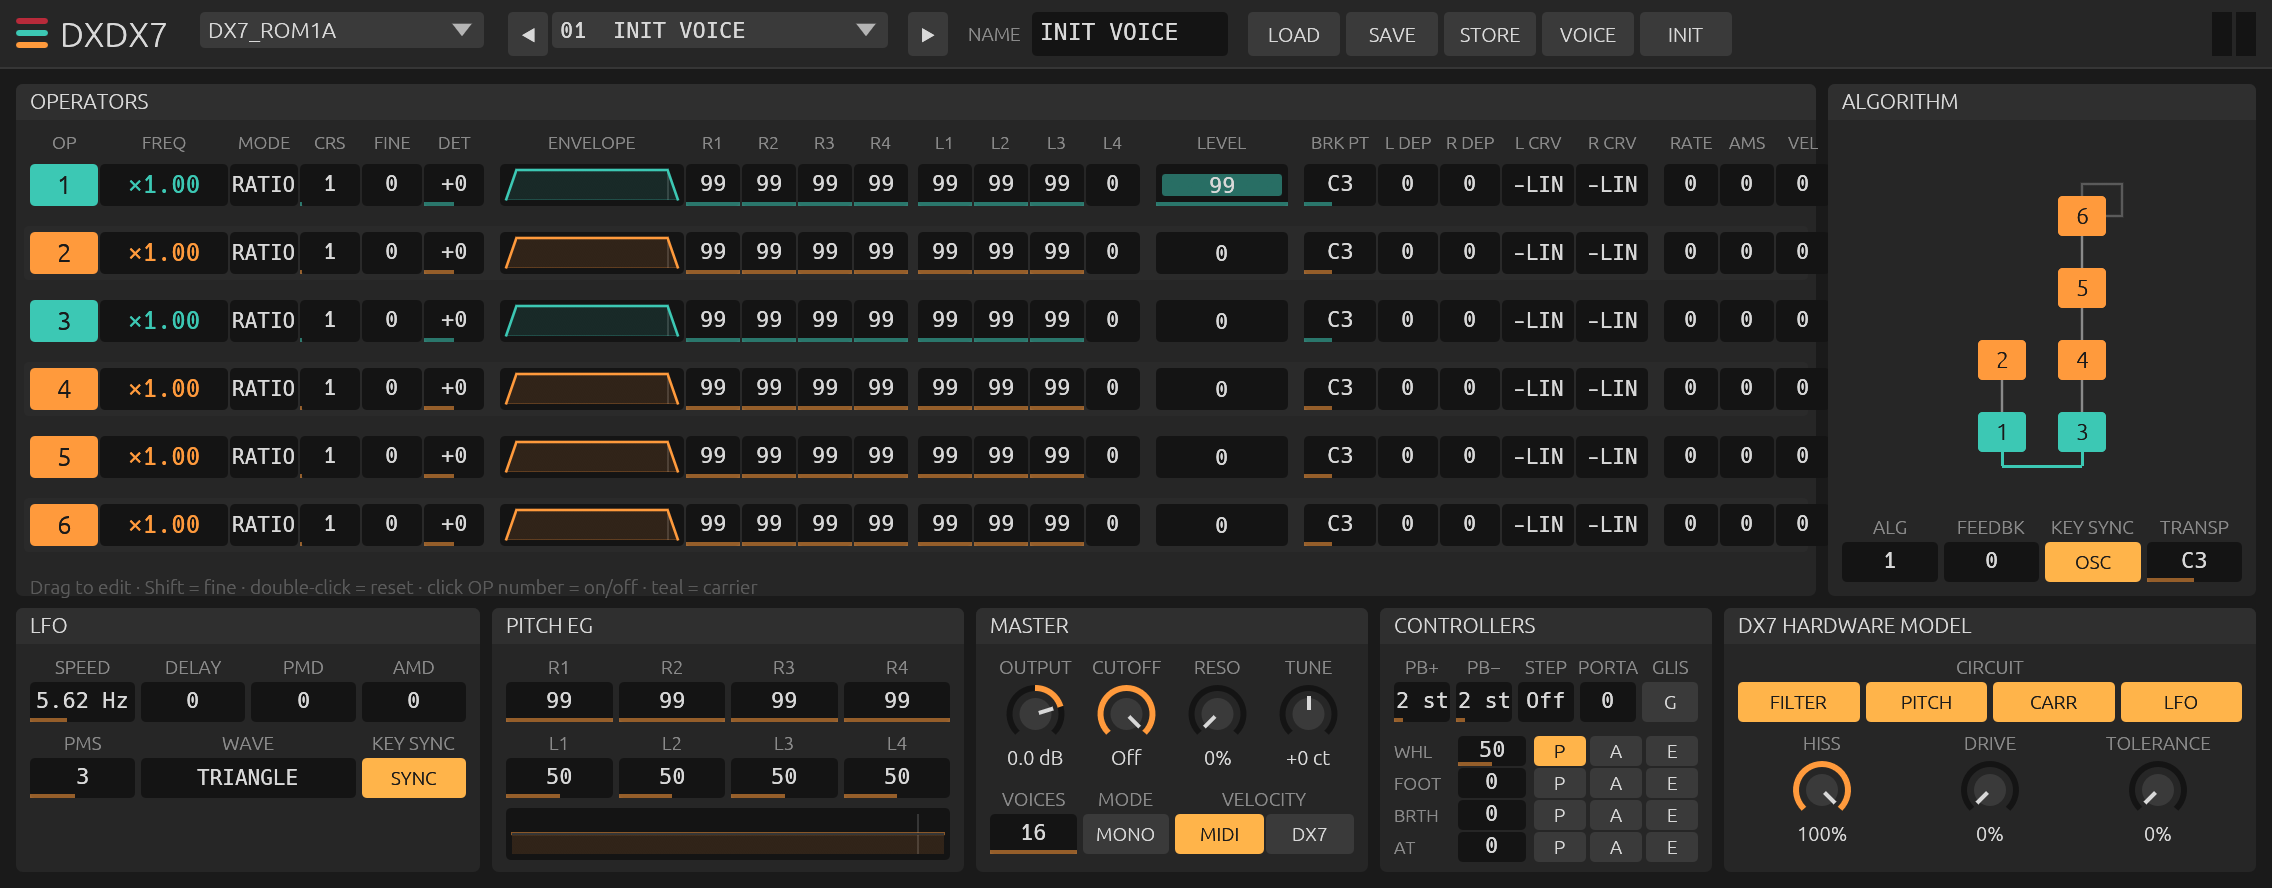
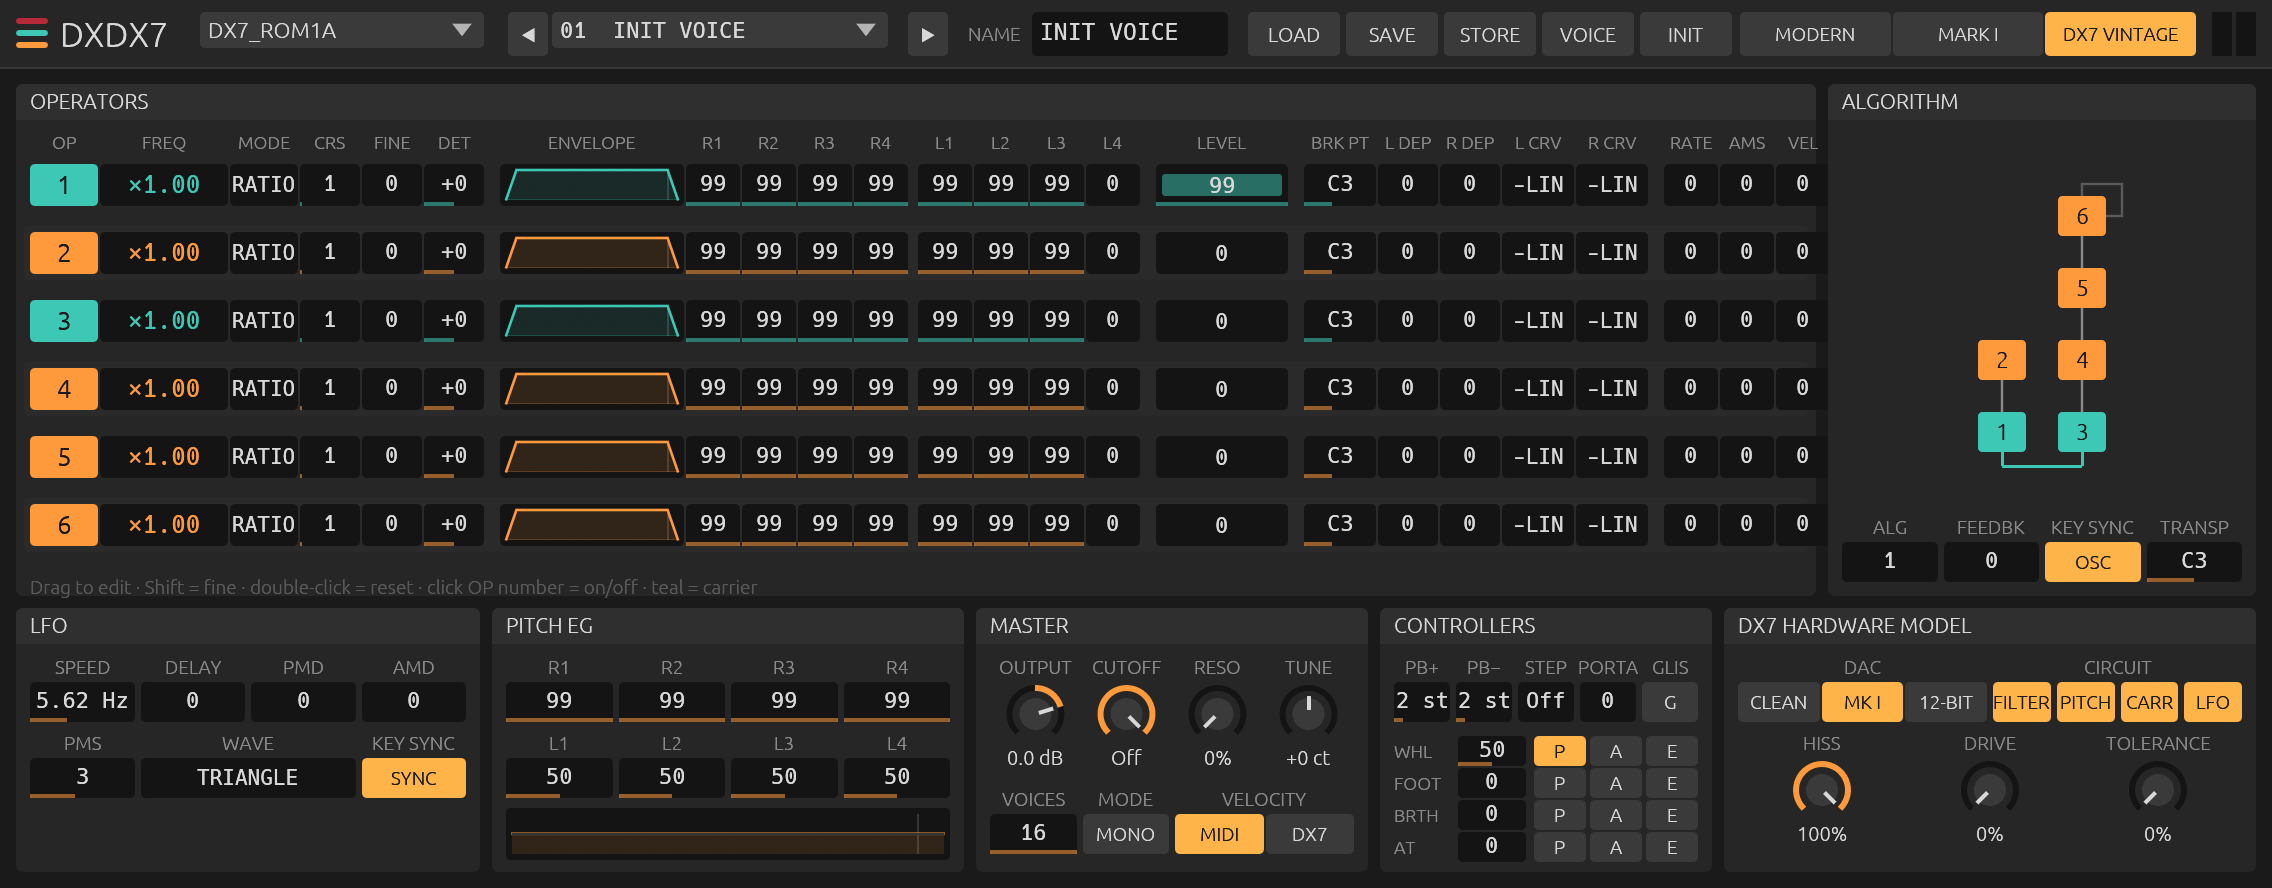
Bring back the engine and DAC selectors
MODERN / MARK I / DX7 VINTAGE return to the header and CLEAN / MK I /
12-BIT to the DX7 Hardware Model section. Defaults are unchanged
(DX7 Vintage with the Mk I DAC). The README describes both selectors
again.

diff --git a/src/ui/mod.rs b/src/ui/mod.rs
@@ -343,13 +343,11 @@ impl DxUi {
         // Meter on the right.
         let mx = bar.right() - MARGIN - 22.0;
         meter(ui, Rect::from_min_size(pos2(mx, bar.top() + 6.0), vec2(22.0, h)), s.get_meter(P::MeterL), s.get_meter(P::MeterR));
-        // Engine switch: hidden for now, the plugin always runs DX7 VINTAGE
-        // (the parameter default). Uncomment to bring back MODERN / MARK I.
-        // let eng = Rect::from_min_size(pos2(mx - 8.0 - 228.0, cy), vec2(228.0, h));
-        // selector(ui, s, eng, P::Engine, &["MODERN", "MARK I", "DX7 VINTAGE"]);
-        let eng = Rect::from_min_size(pos2(mx - 8.0, cy), vec2(0.0, h));
+        // Engine switch (default DX7 VINTAGE).
+        let eng = Rect::from_min_size(pos2(mx - 8.0 - 228.0, cy), vec2(228.0, h));
+        selector(ui, s, eng, P::Engine, &["MODERN", "MARK I", "DX7 VINTAGE"]);
 
-        // Status line (file results) between actions and meter.
+        // Status line (file results) between actions and engine switch.
         if self.status_frames > 0 && !self.status.is_empty() {
             let r = Rect::from_min_max(pos2(x + 6.0, cy), pos2(eng.left() - 8.0, cy + h));
             let galley = p.layout_no_wrap(self.status.clone(), font(10.0), ACCENT);
@@ -789,21 +787,19 @@ fn play_section(ui: &mut egui::Ui, s: &Ctx, r: Rect) {
 
 fn vintage_section(ui: &mut egui::Ui, s: &Ctx, r: Rect) {
     let vintage = s.get_param(P::Engine) > 0.75;
-    let c = section(ui, r, "DX7 HARDWARE MODEL");
+    let c = section(ui, r, if vintage { "DX7 HARDWARE MODEL" } else { "DX7 HARDWARE MODEL  (select DX7 VINTAGE)" });
     let p = ui.painter().clone();
-    // DAC selector: hidden for now, the converter is always the DX7 Mk I
-    // model (the parameter default). Uncomment to bring back CLEAN / 12-BIT
-    // and narrow CIRCUIT back to columns 2..3.
-    // let d = grid(c, 4, 0, 0).union(grid(c, 4, 1, 0));
-    // p.text(pos2(d.center().x, d.top()), Align2::CENTER_TOP, "DAC", font(9.5), DIM);
-    // selector(ui, s, Rect::from_min_size(pos2(d.left(), d.top() + 13.0), vec2(d.width(), 20.0)), P::Dac, &["CLEAN", "MK I", "12-BIT"]);
-    let t = c.with_max_y(c.top() + 34.0);
+    // DAC (default DX7 Mk I).
+    let d = grid(c, 4, 0, 0).union(grid(c, 4, 1, 0));
+    p.text(pos2(d.center().x, d.top()), Align2::CENTER_TOP, "DAC", font(9.5), DIM);
+    selector(ui, s, Rect::from_min_size(pos2(d.left(), d.top() + 13.0), vec2(d.width(), 20.0)), P::Dac, &["CLEAN", "MK I", "12-BIT"]);
+    let t = grid(c, 4, 2, 0).union(grid(c, 4, 3, 0));
     p.text(pos2(t.center().x, t.top()), Align2::CENTER_TOP, "CIRCUIT", font(9.5), DIM);
     let tw = (t.width() - 9.0) / 4.0;
     for (k, (id, l)) in [(P::OutFilter, "FILTER"), (P::HwPitch, "PITCH"), (P::CarrierNorm, "CARR"), (P::LfoSteps, "LFO")].into_iter().enumerate() {
         toggle(ui, s, Rect::from_min_size(pos2(t.left() + k as f32 * (tw + 3.0), t.top() + 13.0), vec2(tw, 20.0)), id, l);
     }
-    let w =c.width() / 3.0;
+    let w = c.width() / 3.0;
     for (k, (id, l)) in [(P::AnalogNoise, "HISS"), (P::Drive, "DRIVE"), (P::Tolerance, "TOLERANCE")].into_iter().enumerate() {
         knob(ui, s, Rect::from_min_size(pos2(c.left() + k as f32 * w, c.top() + 38.0), vec2(w, 60.0)), id, l);
     }

diff --git a/README.md b/README.md
@@ -51,6 +51,7 @@ Ableton Live: *Plug-Ins › Audio Units › Jardim Sonoro › DXDX7*.
 | STORE | Write the edited voice into the current cartridge slot. |
 | VOICE | Export the current voice as a single-voice SysEx. |
 | INIT | DX7 INIT VOICE. |
+| MODERN / MARK I / DX7 VINTAGE | Sound engine, see below. |
 
 MIDI program changes pick a voice from the current cartridge, and a
 single-voice SysEx dump sent over MIDI is loaded. Pitch bend, mod wheel
@@ -70,29 +71,32 @@ as on Dexed; their pitch / amp / EG-bias routing is in CONTROLLERS.
   sync and transpose below it.
 - **LFO**, **Pitch EG**, **Master** (output, Dexed's cutoff / resonance
   filter, tuning, voices, mono, velocity scale) and **Controllers**.
-- **DX7 Hardware Model**: switches for the parts of the hardware model
-  (FILTER, PITCH, CARR, LFO) and the HISS / DRIVE / TOLERANCE amounts.
+- **DX7 Hardware Model** (active with the DX7 VINTAGE engine): the DAC
+  mode, switches for the parts of the hardware model (FILTER, PITCH, CARR,
+  LFO) and the HISS / DRIVE / TOLERANCE amounts.
 
 Drag to change, Shift-drag for fine steps, double-click to reset, mouse
 wheel for single steps.
 
-## Engine
+## Engines
 
-DXDX7 runs one engine, **DX7 Vintage**: Dexed's "Mark I" core (log-sine /
-exp tables like the OPS chip) plus the model of the DX7 hardware below,
-with the DX7 Mark I gain-ranged DAC.
-
-Two more engines and two more DAC modes are still in the code and reachable
-through host automation (parameters *Engine* and *DAC*), but they are not
-on the panel. Their UI is commented out in `src/ui/mod.rs` and can be
-brought back:
-
-| Hidden option | What it is |
+| Engine | What it is |
 |---|---|
-| Engine **Modern** | Dexed's "Modern" core (msfa): high-resolution sine, linear gain, host sample rate. |
-| Engine **Mark I** | Dexed's default engine: the Mark I core at the host sample rate, without the hardware model. |
-| DAC **Clean** | No converter quantisation. |
-| DAC **12-bit flat** | Linear 12-bit without gain ranging; no DX7 did this, it is a lo-fi comparison. |
+| **Modern** | Dexed's "Modern" core (msfa): high-resolution sine, linear gain, host sample rate. |
+| **Mark I** | Dexed's default engine: log-sine / exp tables like the OPS chip, at the host sample rate, without the hardware model. Sounds like Dexed. |
+| **DX7 Vintage** (default) | The Mark I core plus the DX7 hardware model below. |
+
+The **DAC** selector (DX7 Vintage only) picks the converter:
+
+| DAC | What it is |
+|---|---|
+| **Clean** | No converter quantisation: the rest of the hardware model without the DAC grain. |
+| **Mk I** (default) | The DX7 Mark I converter: 12-bit with an analog gain stage, per voice (see below). |
+| **12-bit** | Linear 12-bit without gain ranging. No DX7 did this; a lo-fi comparison. |
+
+"Mark I" means two things here: the engine button is Dexed's name for its
+chip-accurate core, the DAC mode is the converter of the original DX7
+(Mark I, as opposed to the DX7 II).
 
 ### The DX7 hardware model
 
@@ -106,7 +110,7 @@ firmware and Yamaha's patents. Details and sources are in
 |---|---|---|
 | Clock | 9.4265 MHz / 192 = **49,096 Hz** sample rate. FM aliasing folds around 24.55 kHz, so inharmonic alias tones land where they do on the real unit. | The FM core runs at 49,096 Hz and is resampled to the host rate. |
 | Carrier scaling (**CARR**) | Each carrier is attenuated by log2(number of carriers) in the log domain (US 4,554,857 "COM"). Six-carrier algorithms are 15.8 dB quieter per carrier, and a carrier's own feedback is weaker (why Dexed's algorithm 32 feedback is "too strong", Dexed #146). | Applied before the exp lookup, exactly where the chip does it. |
-| DAC | Each voice is converted on its own: 15-bit value into a 12-bit BA9221 DAC shifted by 0-3 bits, with an analog /1../8 ladder: sign + 11-bit mantissa + 2-bit exponent. The grain rises and falls with each voice's level. | Per voice, then voices summed (as the analog S&H does). Always on. |
+| DAC | Each voice is converted on its own: 15-bit value into a 12-bit BA9221 DAC shifted by 0-3 bits, with an analog /1../8 ladder: sign + 11-bit mantissa + 2-bit exponent. The grain rises and falls with each voice's level. | Per voice, then voices summed (as the analog S&H does). CLEAN and flat 12-BIT are there for comparison. |
 | Sample-and-hold | The DAC holds every sample: sin(x)/x droop, -1.4 dB at 15 kHz. | Built into the resampling kernel. |
 | Output filter (**FILTER**) | Passive pole + two Sallen-Key stages, 5th order: 6.8 kHz, 11.6 kHz Q 1.02, 16.1 kHz Q 4.13 - flat to 5 kHz, +0.8 dB at 15 kHz, -3 dB at 17 kHz, -14 dB at 20 kHz. | Designed into the resampler's FIR from the analog response, so it is correct at 44.1 and 48 kHz (a bilinear IIR is 8 dB off at 15 kHz there). |
 | Tuning (**PITCH**) | Pitch is 1024 steps/octave (1.17 cents). The key code gives 3 semitones per 256 steps, so the 2nd and 3rd semitone of each minor third are 0.39 and 0.78 cents flat. Ratios are rounded log values: x5 is +0.41 cents, x11 is -0.54 cents, so "harmonic" partials slowly beat. | Firmware coarse/fine/fixed tables and the key-code pattern; A4 stays 440 Hz. |
